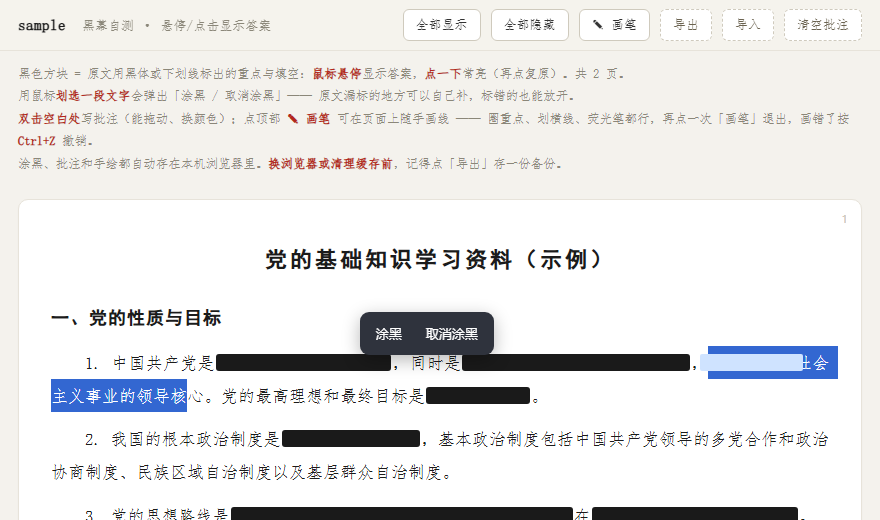
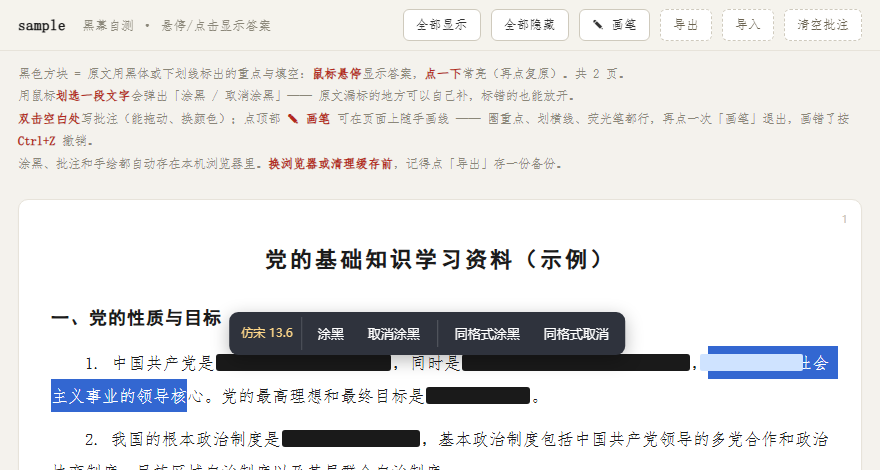
新增：按格式批量涂黑 / 取消涂黑
- 分析阶段记录每个字的格式（字体 + 字号 + 粗体 + 下划线），渲染时按
  「格式 + 是否遮住」分组，元素上带 data-f，页面内嵌格式名表
- 划选文字后菜单里会显示选中文字的格式（如「黑体 13.6」），并提供
  「同格式涂黑 / 同格式取消」，一键处理全文同格式文字
- 操作后给一句 toast 反馈（改了几段），窄屏下菜单自动换行

diff --git a/pdfmask/assets/template.html b/pdfmask/assets/template.html
@@ -98,12 +98,23 @@
   #selmenu{position:fixed; z-index:30; display:none; padding:5px 6px;
            background:#2f333d; border-radius:9px; box-shadow:0 5px 18px rgba(0,0,0,.28);
            font-family:"Microsoft YaHei",system-ui,sans-serif; font-size:13px;
-           transform:translateX(-50%); white-space:nowrap}
+           transform:translateX(-50%); white-space:nowrap;
+           flex-wrap:wrap; justify-content:center; max-width:94vw; box-sizing:border-box}
   #selmenu.show{display:flex; gap:4px}
   #selmenu button{border:0; background:transparent; color:#fff; font:inherit;
                   padding:4px 10px; border-radius:6px; cursor:pointer}
   #selmenu button:hover{background:#ffffff2e}
   #selmenu .hintx{color:#ffffff8c; padding:4px 4px 4px 7px; font-size:12px}
+  #selmenu .fmtlabel{color:#ffd88a; font-size:12px; padding:4px 8px 4px 6px;
+                     border-right:1px solid #ffffff2b; margin-right:2px; max-width:150px;
+                     overflow:hidden; text-overflow:ellipsis; white-space:nowrap}
+  #selmenu .vsep{width:1px; background:#ffffff33; margin:3px 3px}
+  #toast{position:fixed; left:50%; bottom:26px; z-index:40; transform:translate(-50%, 10px);
+         background:#2f333d; color:#fff; padding:8px 16px; border-radius:8px;
+         font-family:"Microsoft YaHei",system-ui,sans-serif; font-size:13px;
+         opacity:0; pointer-events:none; transition:opacity .18s, transform .18s;
+         box-shadow:0 6px 20px rgba(0,0,0,.25); max-width:88vw; text-align:center}
+  #toast.show{opacity:1; transform:translate(-50%, 0)}
   body.draw #selmenu{display:none !important}
   @media (max-width:560px){
     body{font-size:16px}
@@ -700,6 +711,7 @@ document.querySelectorAll('b.b').forEach(function(el){
 
   /* ================= 划选涂黑：把选中的文字盖住 / 放开 ================= */
   var MKEY = 'pdfmask-mask::' + DOC;
+  var FMT = __FMT__ || [];          // 格式名表，下标就是元素的 data-f
   var overrides = {};
   try { overrides = JSON.parse(localStorage.getItem(MKEY) || '{}') || {}; } catch (e) { overrides = {}; }
   function saveMasks(){
@@ -724,10 +736,14 @@ document.querySelectorAll('b.b').forEach(function(el){
         }
         continue;                       // 元素本身不是字符，字符在它的文本子节点里
       }
-      var masked = !!(node.parentNode && node.parentNode.closest
-                      && node.parentNode.closest('b.b'));
+      var holder = node.parentNode;
+      var masked = !!(holder && holder.closest && holder.closest('b.b'));
+      var fmtEl = holder && holder.closest ? holder.closest('[data-f]') : null;
+      var fid = fmtEl ? (parseInt(fmtEl.getAttribute('data-f'), 10) || 0) : 0;
       var text = node.nodeValue;
-      for (var i = 0; i < text.length; i++) out.push({ c: text[i], masked: masked });
+      for (var i = 0; i < text.length; i++) {
+        out.push({ c: text[i], masked: masked, f: fid });
+      }
     }
     return out;
   }
@@ -736,19 +752,25 @@ document.querySelectorAll('b.b').forEach(function(el){
     return s.replace(/&/g, '&amp;').replace(/</g, '&lt;').replace(/>/g, '&gt;');
   }
 
-  /** 把字符写回段落（规则和生成时保持一致：答案裹成 b.b，空格留在外面） */
+  /** 把字符写回段落（按「格式 + 是否遮住」分组，规则和生成时一致） */
   function writeBlock(el, chars){
-    var html = '', buf = '', state = null, out = [];
+    var out = [], buf = '', cur = null;
     function flush(){
       if (!buf) return;
-      if (!state) { out.push(escHtml(buf)); }
-      else {
+      var fid = cur[0], masked = cur[1];
+      if (!masked) {
+        out.push(fid === 0 ? escHtml(buf)
+                           : '<span data-f="' + fid + '">' + escHtml(buf) + '</span>');
+      } else {
         var core = buf.replace(/^ +| +$/g, '');
         if (!core) { out.push(escHtml(buf)); }
         else {
-          out.push(buf.slice(0, buf.length - buf.replace(/^ +/, '').length));
-          out.push('<b class="b">' + escHtml(core) + '</b>');
-          out.push(buf.slice(buf.replace(/ +$/, '').length));
+          var lead = buf.length - buf.replace(/^ +/, '').length;
+          var trail = buf.length - buf.replace(/ +$/, '').length;
+          out.push(buf.slice(0, lead)
+                   + '<b class="b"' + (fid ? ' data-f="' + fid + '"' : '') + '>'
+                   + escHtml(core) + '</b>'
+                   + buf.slice(buf.length - trail));
         }
       }
       buf = '';
@@ -760,8 +782,9 @@ document.querySelectorAll('b.b').forEach(function(el){
         out.push('<i class="cl" style="width:' + (ch.w || '2em') + '"></i>');
         continue;
       }
-      if (state === null) state = ch.masked;
-      if (ch.masked !== state) { flush(); state = ch.masked; }
+      var key = [ch.f || 0, ch.masked ? 1 : 0];
+      if (cur === null) { cur = key; }
+      else if (key[0] !== cur[0] || key[1] !== cur[1]) { flush(); cur = key; }
       buf += ch.c;
     }
     flush();
@@ -816,14 +839,24 @@ document.querySelectorAll('b.b').forEach(function(el){
   /* ---- 浮动小菜单 ---- */
   var selMenu = document.createElement('div');
   selMenu.id = 'selmenu';
-  selMenu.innerHTML = '<button data-act="mask">涂黑</button>'
-                    + '<button data-act="unmask">取消涂黑</button>';
+  selMenu.innerHTML = '<span class="fmtlabel"></span>'
+                    + '<button data-act="mask">涂黑</button>'
+                    + '<button data-act="unmask">取消涂黑</button>'
+                    + '<span class="vsep"></span>'
+                    + '<button data-act="fmask" title="全文所有相同格式的文字一起涂黑">同格式涂黑</button>'
+                    + '<button data-act="funmask" title="全文所有相同格式的文字一起取消涂黑">同格式取消</button>';
   document.body.appendChild(selMenu);
 
   function hideMenu(){ selMenu.classList.remove('show'); }
 
-  function showMenu(rect){
+  function showMenu(rect, fmtId){
     selMenu.classList.add('show');
+    var lb = selMenu.querySelector('.fmtlabel');
+    if (lb) {
+      var name = (typeof fmtId === 'number' && FMT[fmtId]) ? FMT[fmtId] : '';
+      lb.textContent = name;
+      lb.style.display = name ? '' : 'none';
+    }
     var top = rect.top - 42;
     if (top < 8) top = rect.bottom + 10;
     selMenu.style.top = Math.max(6, top) + 'px';
@@ -844,13 +877,17 @@ document.querySelectorAll('b.b').forEach(function(el){
     if (!startEl.closest('.page') || !endEl.closest('.page')) return null;
     var rect = range.getBoundingClientRect();
     if (!rect || (!rect.width && !rect.height)) return null;
-    return { range: range, rect: rect };
+    var holder = range.startContainer.nodeType === 1
+      ? range.startContainer : range.startContainer.parentNode;
+    var fmtEl = holder && holder.closest ? holder.closest('[data-f]') : null;
+    var fmtId = fmtEl ? (parseInt(fmtEl.getAttribute('data-f'), 10) || 0) : 0;
+    return { range: range, rect: rect, fmt: fmtId };
   }
 
   document.addEventListener('selectionchange', function(){
     if (document.body.classList.contains('draw')) { hideMenu(); return; }
     var info = selectionInfo();
-    if (info) showMenu(info.rect); else hideMenu();
+    if (info) showMenu(info.rect, info.fmt); else hideMenu();
   });
 
   selMenu.addEventListener('mousedown', function(e){ e.preventDefault(); });  // 别把选区点没了
@@ -860,7 +897,16 @@ document.querySelectorAll('b.b').forEach(function(el){
     var info = selectionInfo();
     hideMenu();
     if (!info) return;
-    applyMask(info.range, act === 'mask');
+    if (act === 'mask' || act === 'unmask') {
+      applyMask(info.range, act === 'mask');
+      return;
+    }
+    var n = applyFormatMask(info.fmt, act === 'fmask');
+    var sel = window.getSelection();
+    if (sel) sel.removeAllRanges();
+    var name = FMT[info.fmt] || '该格式';
+    toast(n ? ('已把 ' + n + ' 段「' + name + '」' + (act === 'fmask' ? '涂黑' : '取消涂黑'))
+            : ('全文没有其他「' + name + '」的文字'));
   });
 
   function applyMask(range, mask){
@@ -890,6 +936,41 @@ document.querySelectorAll('b.b').forEach(function(el){
       var sel = window.getSelection();
       if (sel) sel.removeAllRanges();
     }
+  }
+
+  /** 按格式批量涂黑 / 取消：全文所有同格式的文字一起处理 */
+  function applyFormatMask(fmtId, mask){
+    var touched = 0;
+    document.querySelectorAll('.page [data-b]').forEach(function(el){
+      var chars = readBlock(el);
+      var hit = false;
+      for (var i = 0; i < chars.length; i++) {
+        if (chars[i].hole) continue;
+        if ((chars[i].f || 0) === fmtId) { chars[i].masked = mask; hit = true; }
+      }
+      if (!hit) return;
+      writeBlock(el, chars);
+      overrides[blockKey(el)] = chars.map(function(c){
+        return c.hole ? '' : (c.masked ? '1' : '0');
+      }).join('');
+      touched++;
+    });
+    if (touched) saveMasks();
+    return touched;
+  }
+
+  /** 屏幕下方的一句轻提示 */
+  function toast(msg){
+    var t = document.getElementById('toast');
+    if (!t) {
+      t = document.createElement('div');
+      t.id = 'toast';
+      document.body.appendChild(t);
+    }
+    t.textContent = msg;
+    t.classList.add('show');
+    clearTimeout(t._timer);
+    t._timer = setTimeout(function(){ t.classList.remove('show'); }, 2000);
   }
 
   /** 打开页面时，把用户以前手动改过的段落复原 */

diff --git a/pdfmask/render.py b/pdfmask/render.py
@@ -9,6 +9,7 @@ from __future__ import annotations
 
 import hashlib
 import html
+import json
 import os
 import sys
 
@@ -28,42 +29,103 @@ def escape(text: str) -> str:
     return html.escape(text, quote=False)
 
 
-def render_chars(chars: list[dict]) -> str:
-    """把一串字符渲染成 HTML：答案是黑幕块，留白填空是横线。"""
-    pieces: list[tuple] = []
-    buf, state = "", None
+FONT_CN = {
+    "simhei": "黑体", "simsun": "宋体", "fangsong": "仿宋", "kaiti": "楷体",
+    "microsoftyahei": "微软雅黑", "simkai": "楷体", "msyh": "微软雅黑",
+    "timesnewroman": "Times", "arial": "Arial", "helvetica": "Helvetica",
+}
+
+
+def font_cn(name: str) -> str:
+    """把字体名翻译成人话，认不出来就用原名。"""
+    low = name.lower()
+    for key, cn in FONT_CN.items():
+        if key in low:
+            return cn
+    return name
+
+
+def sig_of(ch: dict) -> tuple:
+    """一个字符的「格式」＝ 字体 + 字号 + 粗体 + 下划线。"""
+    return (ch["font"], ch["size"], bool(ch.get("bold")), bool(ch.get("ul")))
+
+
+def format_name(sig: tuple) -> str:
+    font, size, bold, ul = sig
+    name = font_cn(font)
+    parts = [name]
+    if bold and not any(k in name for k in ("黑", "粗", "Hei", "Bold")):
+        parts.append("粗体")
+    parts.append("%g" % size)
+    if ul:
+        parts.append("下划线")
+    return " ".join(parts)
+
+
+def collect_formats(pages: list[dict]) -> tuple[dict, list]:
+    """扫全文给每种格式编号。
+
+    出现最多的那个排 0 号，网页里可以省略不写，省点体积。
+    """
+    counter: dict = {}
+    for page in pages:
+        for block in page["blocks"]:
+            for ch in block["chars"]:
+                if ch.get("hole"):
+                    continue
+                sig = sig_of(ch)
+                counter[sig] = counter.get(sig, 0) + 1
+    ordered = sorted(counter.items(), key=lambda kv: (-kv[1], kv[0]))
+    ids = {sig: i for i, (sig, _) in enumerate(ordered)}
+    return ids, [format_name(sig) for sig, _ in ordered]
+
+
+def render_chars(chars: list[dict], fmt_ids: dict) -> str:
+    """把一串字符渲染成 HTML。
+
+    包裹方式（黑幕 / 普通）按「是否遮住 + 格式」分组：
+    遮住的用 <b class="b">，没遮的用 <span data-f>；0 号格式（最常见那种）
+    省略属性，省体积。
+    """
+    out: list[str] = []
+    buf, cur = "", None
+
+    def flush() -> None:
+        nonlocal buf, cur
+        if not buf:
+            return
+        if cur is None or not cur[1]:
+            # 没遮的普通文字
+            if cur is None or cur[0] == 0:
+                out.append(escape(buf))
+            else:
+                out.append('<span data-f="%d">%s</span>' % (cur[0], escape(buf)))
+        else:
+            core = buf.strip(" ")
+            if not core:
+                out.append(escape(buf))
+            else:
+                pad_l = len(buf) - len(buf.lstrip(" "))
+                pad_r = len(buf) - len(buf.rstrip(" "))
+                fid = ' data-f="%d"' % cur[0] if cur[0] else ""
+                out.append(" " * pad_l
+                           + '<b class="b"%s>%s</b>' % (fid, escape(core))
+                           + " " * pad_r)
+        buf = ""
+
     for ch in chars:
         if ch.get("hole"):
-            if buf:
-                pieces.append((state, buf))
-                buf = ""
-            pieces.append(("hole", ch))
+            flush()
+            out.append('<i class="cl" style="width:%sem"></i>' % ch["w"])
             continue
-        st = ch["ans"]
-        if state is None:
-            state = st
-        if st != state:
-            pieces.append((state, buf))
-            buf, state = "", st
+        key = (fmt_ids.get(sig_of(ch), 0), ch["ans"])
+        if cur is None:
+            cur = key
+        elif key != cur:
+            flush()
+            cur = key
         buf += ch["c"]
-    if buf:
-        pieces.append((state, buf))
-
-    out = []
-    for kind, val in pieces:
-        if kind == "hole":
-            out.append('<i class="cl" style="width:%sem"></i>' % val["w"])
-            continue
-        if not kind:
-            out.append(escape(val))
-            continue
-        core = val.strip(" ")
-        if not core:
-            out.append(escape(val))
-            continue
-        pad_l = len(val) - len(val.lstrip(" "))
-        pad_r = len(val) - len(val.rstrip(" "))
-        out.append(" " * pad_l + '<b class="b">%s</b>' % escape(core) + " " * pad_r)
+    flush()
     return "".join(out)
 
 
@@ -82,6 +144,7 @@ def doc_key(title: str, pages: list[dict]) -> str:
 
 def render(pages: list[dict], title: str, footer: str = "") -> str:
     """pages 来自 analyze()，返回完整的 HTML 文本。"""
+    fmt_ids, fmt_names = collect_formats(pages)
     body = []
     for page in pages:
         parts = []
@@ -93,9 +156,10 @@ def render(pages: list[dict], title: str, footer: str = "") -> str:
             tag = block["kind"]
             if tag in ("h1", "h2"):
                 parts.append('<%s class="t" data-b="%d">%s</%s>'
-                             % (tag, bi, render_chars(chars), tag))
+                             % (tag, bi, render_chars(chars, fmt_ids), tag))
             else:
-                parts.append('<p data-b="%d">%s</p>' % (bi, render_chars(chars)))
+                parts.append('<p data-b="%d">%s</p>'
+                             % (bi, render_chars(chars, fmt_ids)))
         body.append('<section class="page" id="p%d">'
                     '<span class="pn">%d</span>\n%s\n</section>'
                     % (page["page"], page["page"], "\n".join(parts)))
@@ -105,6 +169,7 @@ def render(pages: list[dict], title: str, footer: str = "") -> str:
                      ("__PAGES__", str(len(pages))),
                      ("__BODY__", "\n".join(body)),
                      ("__DOCKEY__", doc_key(title, pages)),
+                     ("__FMT__", json.dumps(fmt_names, ensure_ascii=False)),
                      ("__FOOTER__", footer)):
         tpl = tpl.replace(key, val)
     return tpl

diff --git a/pdfmask/analyze.py b/pdfmask/analyze.py
@@ -200,6 +200,9 @@ def collect_rows(page, body_size: float,
                     "ans": bool(emphasized or (under and black)),
                     "size": round(span["size"], 1),
                     "font": span["font"],
+                    # 下面是「格式」信息：用户可以在网页上按格式批量涂黑
+                    "bold": bool(emphasized),
+                    "ul": bool(under),
                     "x0": x0, "x1": x1, "y1": y1,
                 })
             prev_end = span["bbox"][2]

diff --git a/pdfmask/__init__.py b/pdfmask/__init__.py
@@ -10,7 +10,7 @@
     convert("复习资料.pdf")          # 生成 复习资料_背诵版.html
 """
 
-__version__ = "1.1.1"
+__version__ = "1.2.0"
 __all__ = ["analyze", "render", "convert"]
 
 from .analyze import analyze, stats           # noqa: F401
